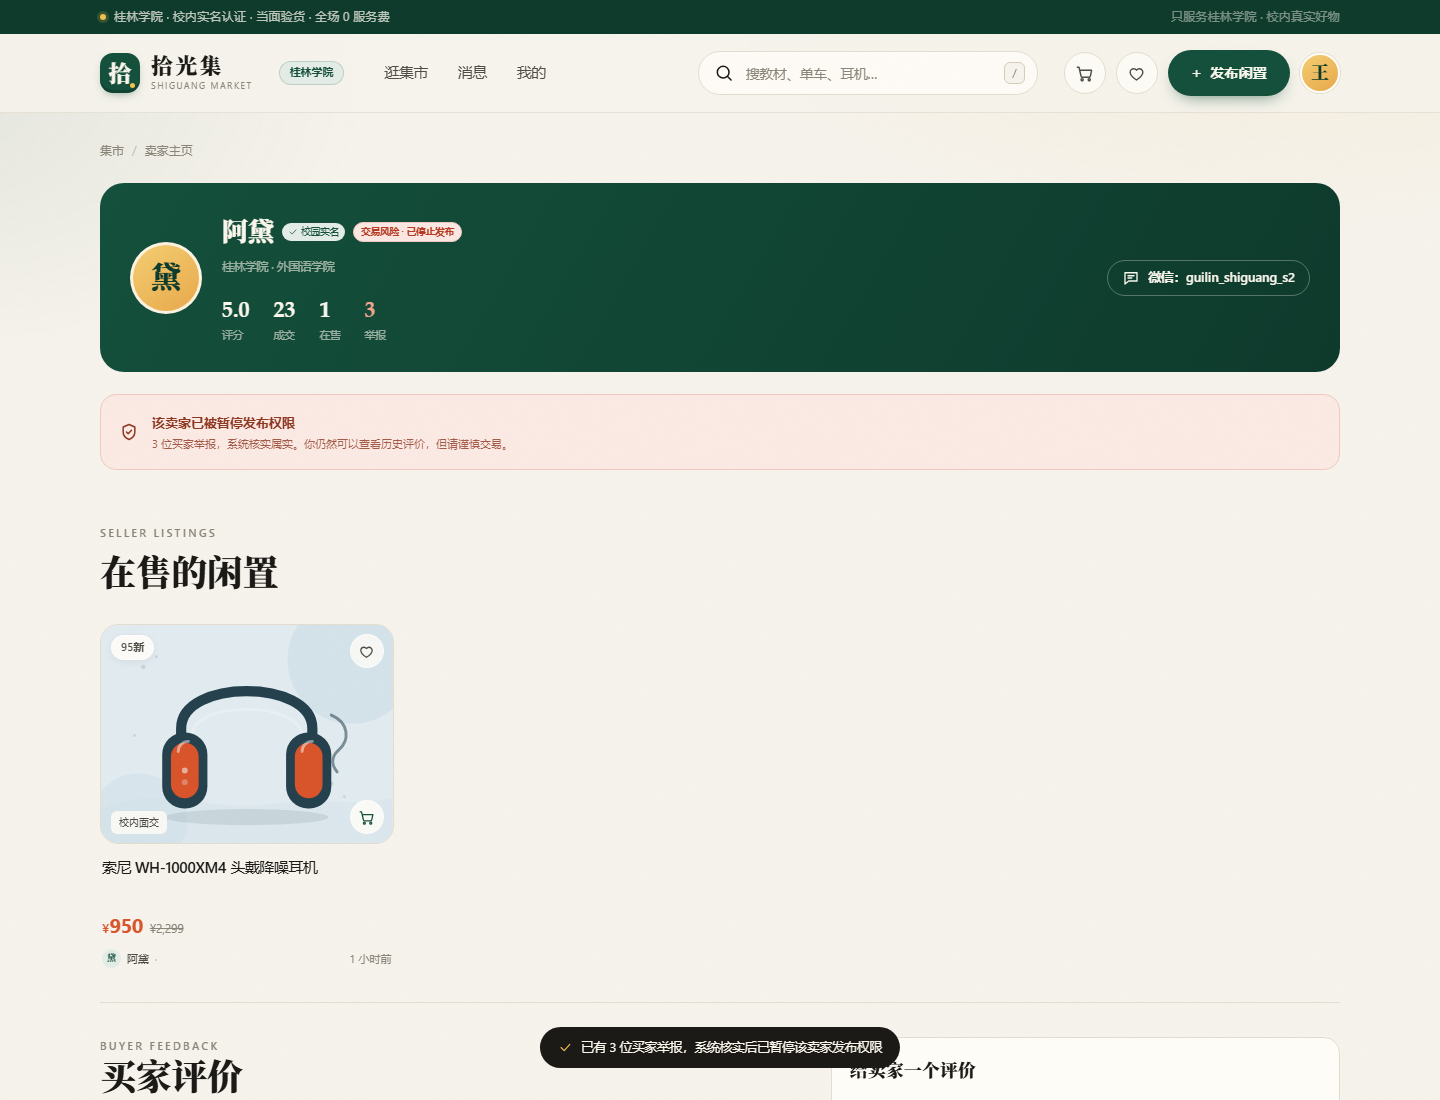
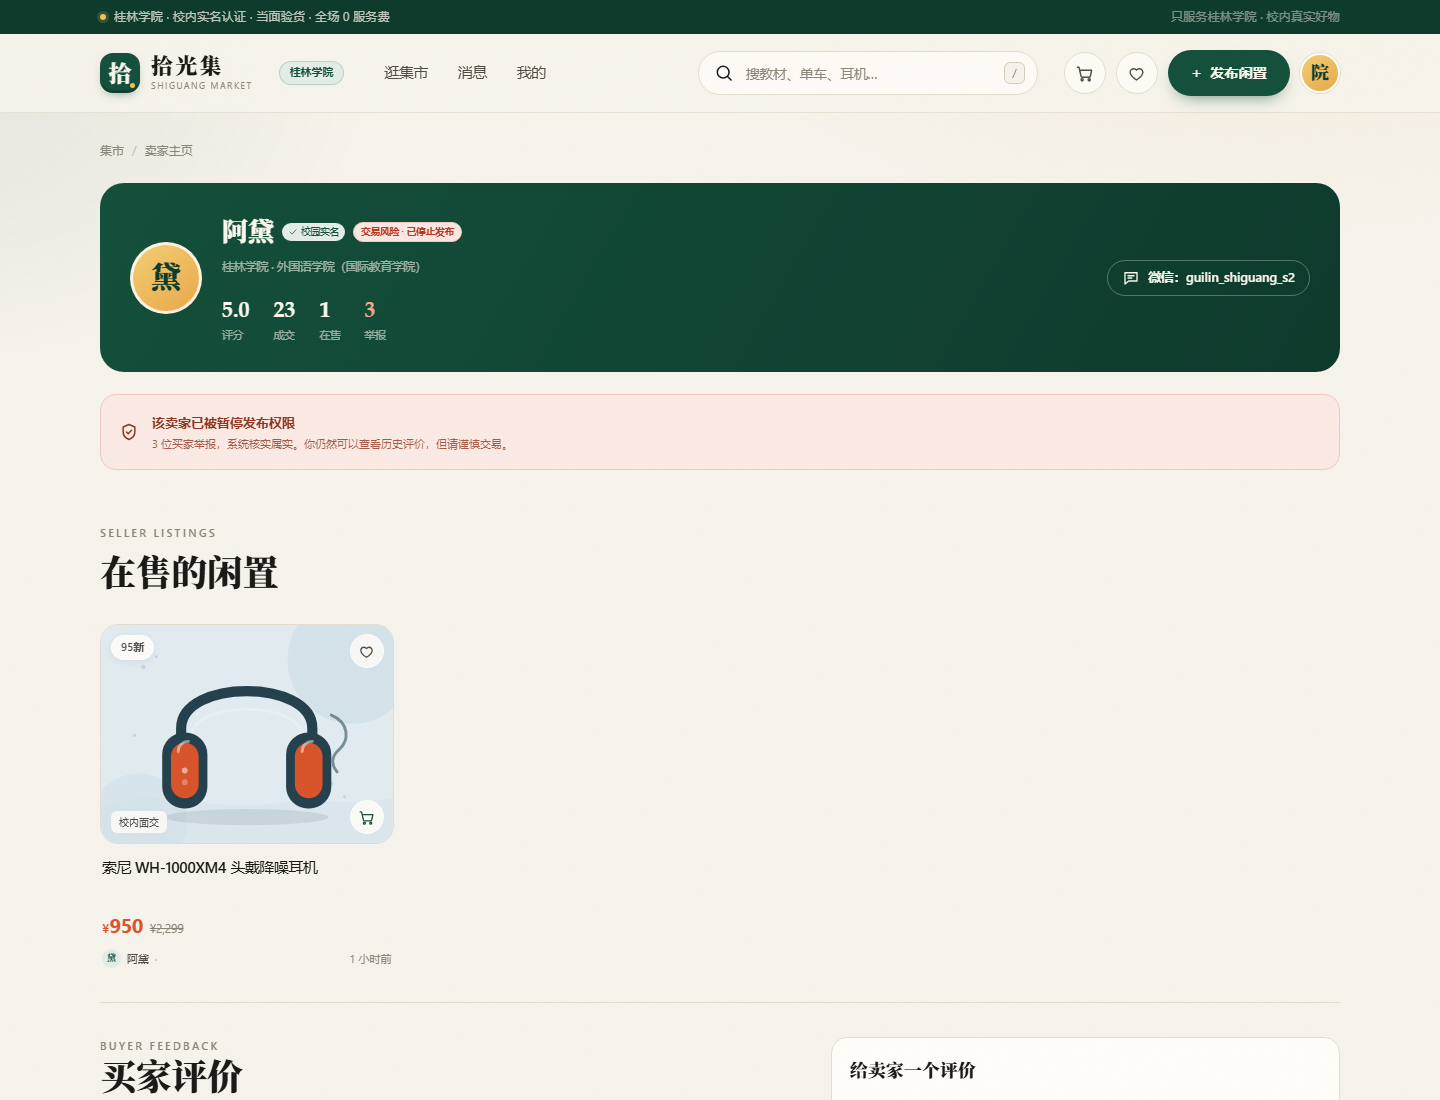
fix: align colleges with Guilin University official list

Changed region(s): [[0.375, 0.9273, 0.625, 0.9891], [0.9062, 0.0618, 0.9375, 0.0927], [0.25, 0.2164, 0.2812, 0.2473]]

diff --git a/src/data/site.js b/src/data/site.js
@@ -20,6 +20,50 @@ export const SCHOOL = {
 
 export const AREAS = SCHOOL.areas;
 
+export const COLLEGES = [
+  "马克思主义学院",
+  "外国语学院（国际教育学院）",
+  "文化与传媒学院",
+  "工商管理学院",
+  "信息工程学院",
+  "金融与法律学院",
+  "教育与音乐学院",
+  "城市设计学院",
+  "旅游与体育健康学院"
+];
+
+// 旧版本里出现过的不准确院系名称，统一映射到官网名称。
+export const COLLEGE_ALIASES = {
+  "机械工程学院": "信息工程学院",
+  "外国语学院": "外国语学院（国际教育学院）",
+  "新闻传播学院": "文化与传媒学院",
+  "美术学院": "城市设计学院",
+  "建筑学院": "城市设计学院",
+  "数学学院": "信息工程学院",
+  "经济学院": "工商管理学院",
+  "设计学院": "城市设计学院",
+  "软件学院": "信息工程学院",
+  "文学院": "文化与传媒学院",
+  "物理学院": "信息工程学院",
+  "土木工程学院": "城市设计学院",
+  "天文学院": "城市设计学院",
+  "教育学院": "教育与音乐学院",
+  "材料学院": "信息工程学院",
+  "体育学院": "旅游与体育健康学院",
+  "生命科学学院": "城市设计学院",
+  "视觉传达": "城市设计学院"
+};
+
+export function normalizeCollege(dept) {
+  const value = String(dept || '').trim();
+  if (!value) return '信息工程学院';
+  if (COLLEGES.includes(value)) return value;
+
+  const base = value.split('·')[0].trim();
+  if (COLLEGES.includes(base)) return base;
+  return COLLEGE_ALIASES[value] || COLLEGE_ALIASES[base] || base;
+}
+
 export const CATEGORIES = [
   {
     "id": "digital",
@@ -111,7 +155,7 @@ export const MOCK_USER = {
   "name": "林小满",
   "initial": "满",
   "school": "桂林学院",
-  "dept": "信息工程学院 · 大四",
+  "dept": "信息工程学院",
   "rating": 4.9,
   "deals": 12,
   "joined": "2022 年 9 月",
@@ -143,7 +187,7 @@ export const SEED_LISTINGS = [
       "name": "陈屿",
       "initial": "屿",
       "school": "桂林学院",
-      "dept": "机械工程学院",
+      "dept": "信息工程学院",
       "rating": 4.9,
       "deals": 8,
       "verified": true,
@@ -174,7 +218,7 @@ export const SEED_LISTINGS = [
       "name": "阿黛",
       "initial": "黛",
       "school": "桂林学院",
-      "dept": "外国语学院",
+      "dept": "外国语学院（国际教育学院）",
       "rating": 5,
       "deals": 23,
       "verified": true,
@@ -205,7 +249,7 @@ export const SEED_LISTINGS = [
       "name": "苏禾",
       "initial": "禾",
       "school": "桂林学院",
-      "dept": "新闻传播学院",
+      "dept": "文化与传媒学院",
       "rating": 4.8,
       "deals": 15,
       "verified": true,
@@ -235,7 +279,7 @@ export const SEED_LISTINGS = [
       "name": "晚晚",
       "initial": "晚",
       "school": "桂林学院",
-      "dept": "美术学院",
+      "dept": "城市设计学院",
       "rating": 4.9,
       "deals": 6,
       "verified": true,
@@ -266,7 +310,7 @@ export const SEED_LISTINGS = [
       "name": "周野",
       "initial": "野",
       "school": "桂林学院",
-      "dept": "建筑学院",
+      "dept": "城市设计学院",
       "rating": 4.7,
       "deals": 4,
       "verified": true,
@@ -297,7 +341,7 @@ export const SEED_LISTINGS = [
       "name": "老白",
       "initial": "白",
       "school": "桂林学院",
-      "dept": "数学学院",
+      "dept": "信息工程学院",
       "rating": 4.8,
       "deals": 11,
       "verified": true,
@@ -327,7 +371,7 @@ export const SEED_LISTINGS = [
       "name": "一颗桃",
       "initial": "桃",
       "school": "桂林学院",
-      "dept": "经济学院",
+      "dept": "工商管理学院",
       "rating": 4.9,
       "deals": 9,
       "verified": true,
@@ -357,7 +401,7 @@ export const SEED_LISTINGS = [
       "name": "Kiki",
       "initial": "K",
       "school": "桂林学院",
-      "dept": "设计学院",
+      "dept": "城市设计学院",
       "rating": 4.6,
       "deals": 3,
       "verified": false,
@@ -388,7 +432,7 @@ export const SEED_LISTINGS = [
       "name": "林一",
       "initial": "一",
       "school": "桂林学院",
-      "dept": "软件学院",
+      "dept": "信息工程学院",
       "rating": 4.9,
       "deals": 17,
       "verified": true,
@@ -418,7 +462,7 @@ export const SEED_LISTINGS = [
       "name": "迟雨",
       "initial": "雨",
       "school": "桂林学院",
-      "dept": "文学院",
+      "dept": "文化与传媒学院",
       "rating": 4.8,
       "deals": 7,
       "verified": true,
@@ -448,7 +492,7 @@ export const SEED_LISTINGS = [
       "name": "阿哲",
       "initial": "哲",
       "school": "桂林学院",
-      "dept": "物理学院",
+      "dept": "信息工程学院",
       "rating": 4.5,
       "deals": 2,
       "verified": true,
@@ -478,7 +522,7 @@ export const SEED_LISTINGS = [
       "name": "大川",
       "initial": "川",
       "school": "桂林学院",
-      "dept": "土木工程学院",
+      "dept": "城市设计学院",
       "rating": 4.7,
       "deals": 5,
       "verified": true,
@@ -508,7 +552,7 @@ export const SEED_LISTINGS = [
       "name": "星野",
       "initial": "星",
       "school": "桂林学院",
-      "dept": "天文学院",
+      "dept": "城市设计学院",
       "rating": 4.9,
       "deals": 13,
       "verified": true,
@@ -538,7 +582,7 @@ export const SEED_LISTINGS = [
       "name": "小满",
       "initial": "满",
       "school": "桂林学院",
-      "dept": "教育学院",
+      "dept": "教育与音乐学院",
       "rating": 5,
       "deals": 21,
       "verified": true,
@@ -569,7 +613,7 @@ export const SEED_LISTINGS = [
       "name": "老K",
       "initial": "K",
       "school": "桂林学院",
-      "dept": "材料学院",
+      "dept": "信息工程学院",
       "rating": 4.6,
       "deals": 6,
       "verified": true,
@@ -599,7 +643,7 @@ export const SEED_LISTINGS = [
       "name": "阿飞",
       "initial": "飞",
       "school": "桂林学院",
-      "dept": "体育学院",
+      "dept": "旅游与体育健康学院",
       "rating": 4.8,
       "deals": 10,
       "verified": true,
@@ -629,7 +673,7 @@ export const SEED_LISTINGS = [
       "name": "青禾",
       "initial": "青",
       "school": "桂林学院",
-      "dept": "生命科学学院",
+      "dept": "城市设计学院",
       "rating": 4.9,
       "deals": 8,
       "verified": true,
@@ -659,7 +703,7 @@ export const SEED_LISTINGS = [
       "name": "木木",
       "initial": "木",
       "school": "桂林学院",
-      "dept": "视觉传达",
+      "dept": "城市设计学院",
       "rating": 4.8,
       "deals": 12,
       "verified": true,

diff --git a/src/views/LoginView.vue b/src/views/LoginView.vue
@@ -2,8 +2,9 @@
 import { computed, reactive, ref } from 'vue';
 import { useRoute, useRouter } from 'vue-router';
 import Icon from '../components/Icon.vue';
-import { loginAccount, registerAccount, market } from '../stores/market';
+import { loginAccount, registerAccount } from '../stores/market';
 import { toast } from '../stores/ui';
+import { COLLEGES } from '../data/site';
 
 const route = useRoute();
 const router = useRouter();
@@ -12,7 +13,7 @@ const submitting = ref(false);
 const error = ref('');
 
 const loginForm = reactive({ identifier: '', password: '' });
-const registerForm = reactive({ name: '', phone: '', dept: '', password: '', confirm: '' });
+const registerForm = reactive({ name: '', phone: '', dept: COLLEGES[4], password: '', confirm: '' });
 
 const redirectTo = computed(() => {
   const target = String(route.query.redirect || '/');
@@ -131,8 +132,11 @@ async function submitRegister() {
             </div>
           </div>
           <div class="field">
-            <label class="field-label" for="reg-dept">学院 / 专业 <span class="opt">选填</span></label>
-            <input id="reg-dept" v-model="registerForm.dept" class="input" placeholder="例如：信息工程学院 · 软件工程">
+            <label class="field-label" for="reg-dept">所属学院<span class="req">*</span></label>
+            <select id="reg-dept" v-model="registerForm.dept" class="select">
+              <option v-for="college in COLLEGES" :key="college" :value="college">{{ college }}</option>
+            </select>
+            <p class="field-hint">院系名称按桂林学院官网「机构设置」整理。</p>
           </div>
           <div class="form-row">
             <div class="field">

diff --git a/src/lib/db.js b/src/lib/db.js
@@ -1,4 +1,4 @@
-import { SEED_LISTINGS } from '../data/site';
+import { normalizeCollege, SEED_LISTINGS } from '../data/site';
 
 const DB_NAME = 'shiguang-db';
 const DB_VERSION = 1;
@@ -190,6 +190,28 @@ export async function initDatabase() {
     // 老数据已经存在时，只补一个标记，避免以后把演示商品再次灌入。
     await putRecord('meta', { key: 'seed', value: true, seededAt: Date.now() });
   }
+
+  // 把旧版本里不准确的院系名称迁移到桂林学院官网当前名单。
+  const allAccounts = await getAll('accounts');
+  for (const account of allAccounts) {
+    if (account.role === 'admin' || !account.dept) continue;
+    const normalized = normalizeCollege(account.dept);
+    if (normalized !== account.dept) {
+      account.dept = normalized;
+      await putRecord('accounts', account);
+    }
+  }
+
+  const allListings = await getAll('listings');
+  for (const listing of allListings) {
+    const current = listing.seller?.dept;
+    if (!current) continue;
+    const normalized = normalizeCollege(current);
+    if (normalized !== current) {
+      listing.seller.dept = normalized;
+      await putRecord('listings', listing);
+    }
+  }
 }
 
 export async function createAccount({ name, phone, password, dept }) {
@@ -209,7 +231,7 @@ export async function createAccount({ name, phone, password, dept }) {
     name: name.trim(),
     initial: name.trim().slice(0, 1) || '同',
     school: '桂林学院',
-    dept: dept?.trim() || '未填写学院',
+    dept: normalizeCollege(dept || '信息工程学院'),
     role: 'user',
     verified: true,
     publishBanned: false,

diff --git a/README.md b/README.md
@@ -64,6 +64,24 @@
 
 普通用户直接注册即可。一个手机号只能注册一个账号，数据库对手机号建了唯一索引。
 
+## 院系信息校正
+
+项目中的二级学院名称已按桂林学院官网「机构设置」重新校对。学校现有 9 个实体二级学院：
+
+- 马克思主义学院
+- 外国语学院（国际教育学院）
+- 文化与传媒学院
+- 工商管理学院
+- 信息工程学院
+- 金融与法律学院
+- 教育与音乐学院
+- 城市设计学院
+- 旅游与体育健康学院
+
+> 参考来源：[桂林学院 · 机构设置](https://www.glc.edu.cn/jgsz.htm)、[桂林学院简介](https://www.glc.edu.cn/xxgl.htm)。至善学院、创新创业学院、继续教育学院、国际教育学院属于特色教学机构，不混入二级学院下拉框。
+
+注册页的「所属学院」已改为下拉选择，避免手工输入错误。旧版本 IndexedDB 里已经存在的卖家院系会在启动时自动迁移到上述名称。
+
 ## 数据库设计
 
 使用浏览器内置的 **IndexedDB**（数据库名 `shiguang-db`）。
